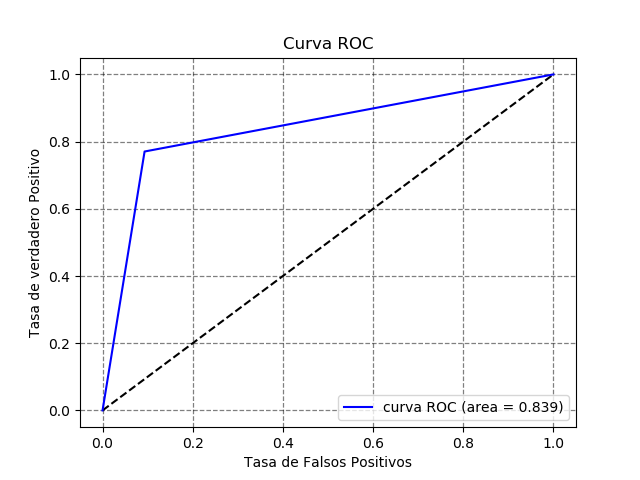
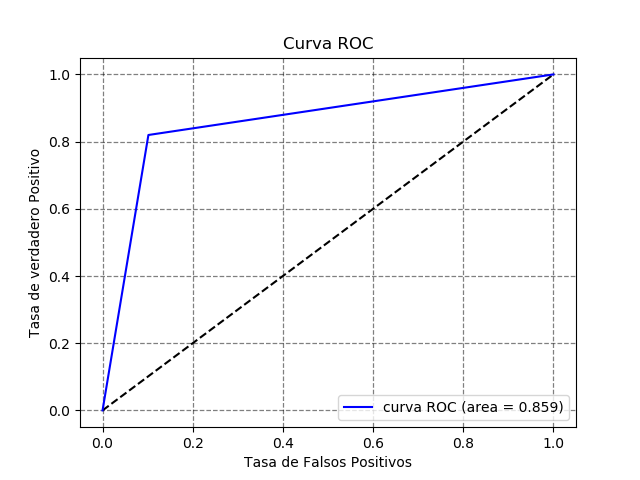
Adicion de un arbol de decision, mejora todas las metricas en dos puntos

diff --git a/TITANIC/modelo_1.py b/TITANIC/modelo_1.py
@@ -15,6 +15,7 @@ from sklearn.metrics import (accuracy_score,
                              roc_curve, auc)
 from sklearn.linear_model import LogisticRegression
 from sklearn.preprocessing import OneHotEncoder
+from sklearn.tree import DecisionTreeClassifier
 # ============================================================================
 # Lectura de datos
 data = pd.read_csv("DATA/train.csv")
@@ -67,7 +68,7 @@ data.Cabin.fillna(value="U", inplace=True)
 # por utlimo la variable embarked tiene 2 posiciones vacias las reemplazamos
 # arbitrariamente con S, aunque puede ser a elección
 
-data[Embarked_data].fillna(value="C", inplace=True)
+data[Embarked_data].fillna(value="S", inplace=True)
 
 # Para test se rellena con el promedio de datos en la variables Fare
 
@@ -173,27 +174,18 @@ print("")
 # Construccion del meta modelo
 r = 11
 clfs = [("Bernoulli", BernoulliNB(alpha=0.8)),
+        ("Arbol Decision", DecisionTreeClassifier(max_depth=11,
+                                                  class_weight="balanced",
+                                                  random_state=r)),
         ("LR", LogisticRegression(solver="liblinear",
-                                  # penalty="l2",
-                                  # dual=True,
-                                  # tol=1e-6,
-                                  # C=0.8,
                                   class_weight="balanced",
                                   random_state=r)),
         ("Forest", RandomForestClassifier(bootstrap=True,
                                           ccp_alpha=0.0,
                                           criterion="entropy",
-                                          max_depth=2,
-                                          # max_features="auto",
-                                          # max_leaf_nodes=5,
+                                          max_depth=9,
+                                          n_estimators=20,
                                           max_samples=10,
-                                          # min_impurity_decrease=0.0,
-                                          # min_samples_leaf=0,
-                                          # min_samples_split=10,
-                                          # min_weight_fraction_leaf=0.0,
-                                          # n_estimators=50,
-                                          # n_jobs=10,
-                                          # oob_score=True,
                                           random_state=r))]
 
 clf = StackingClassifier(estimators=clfs,
